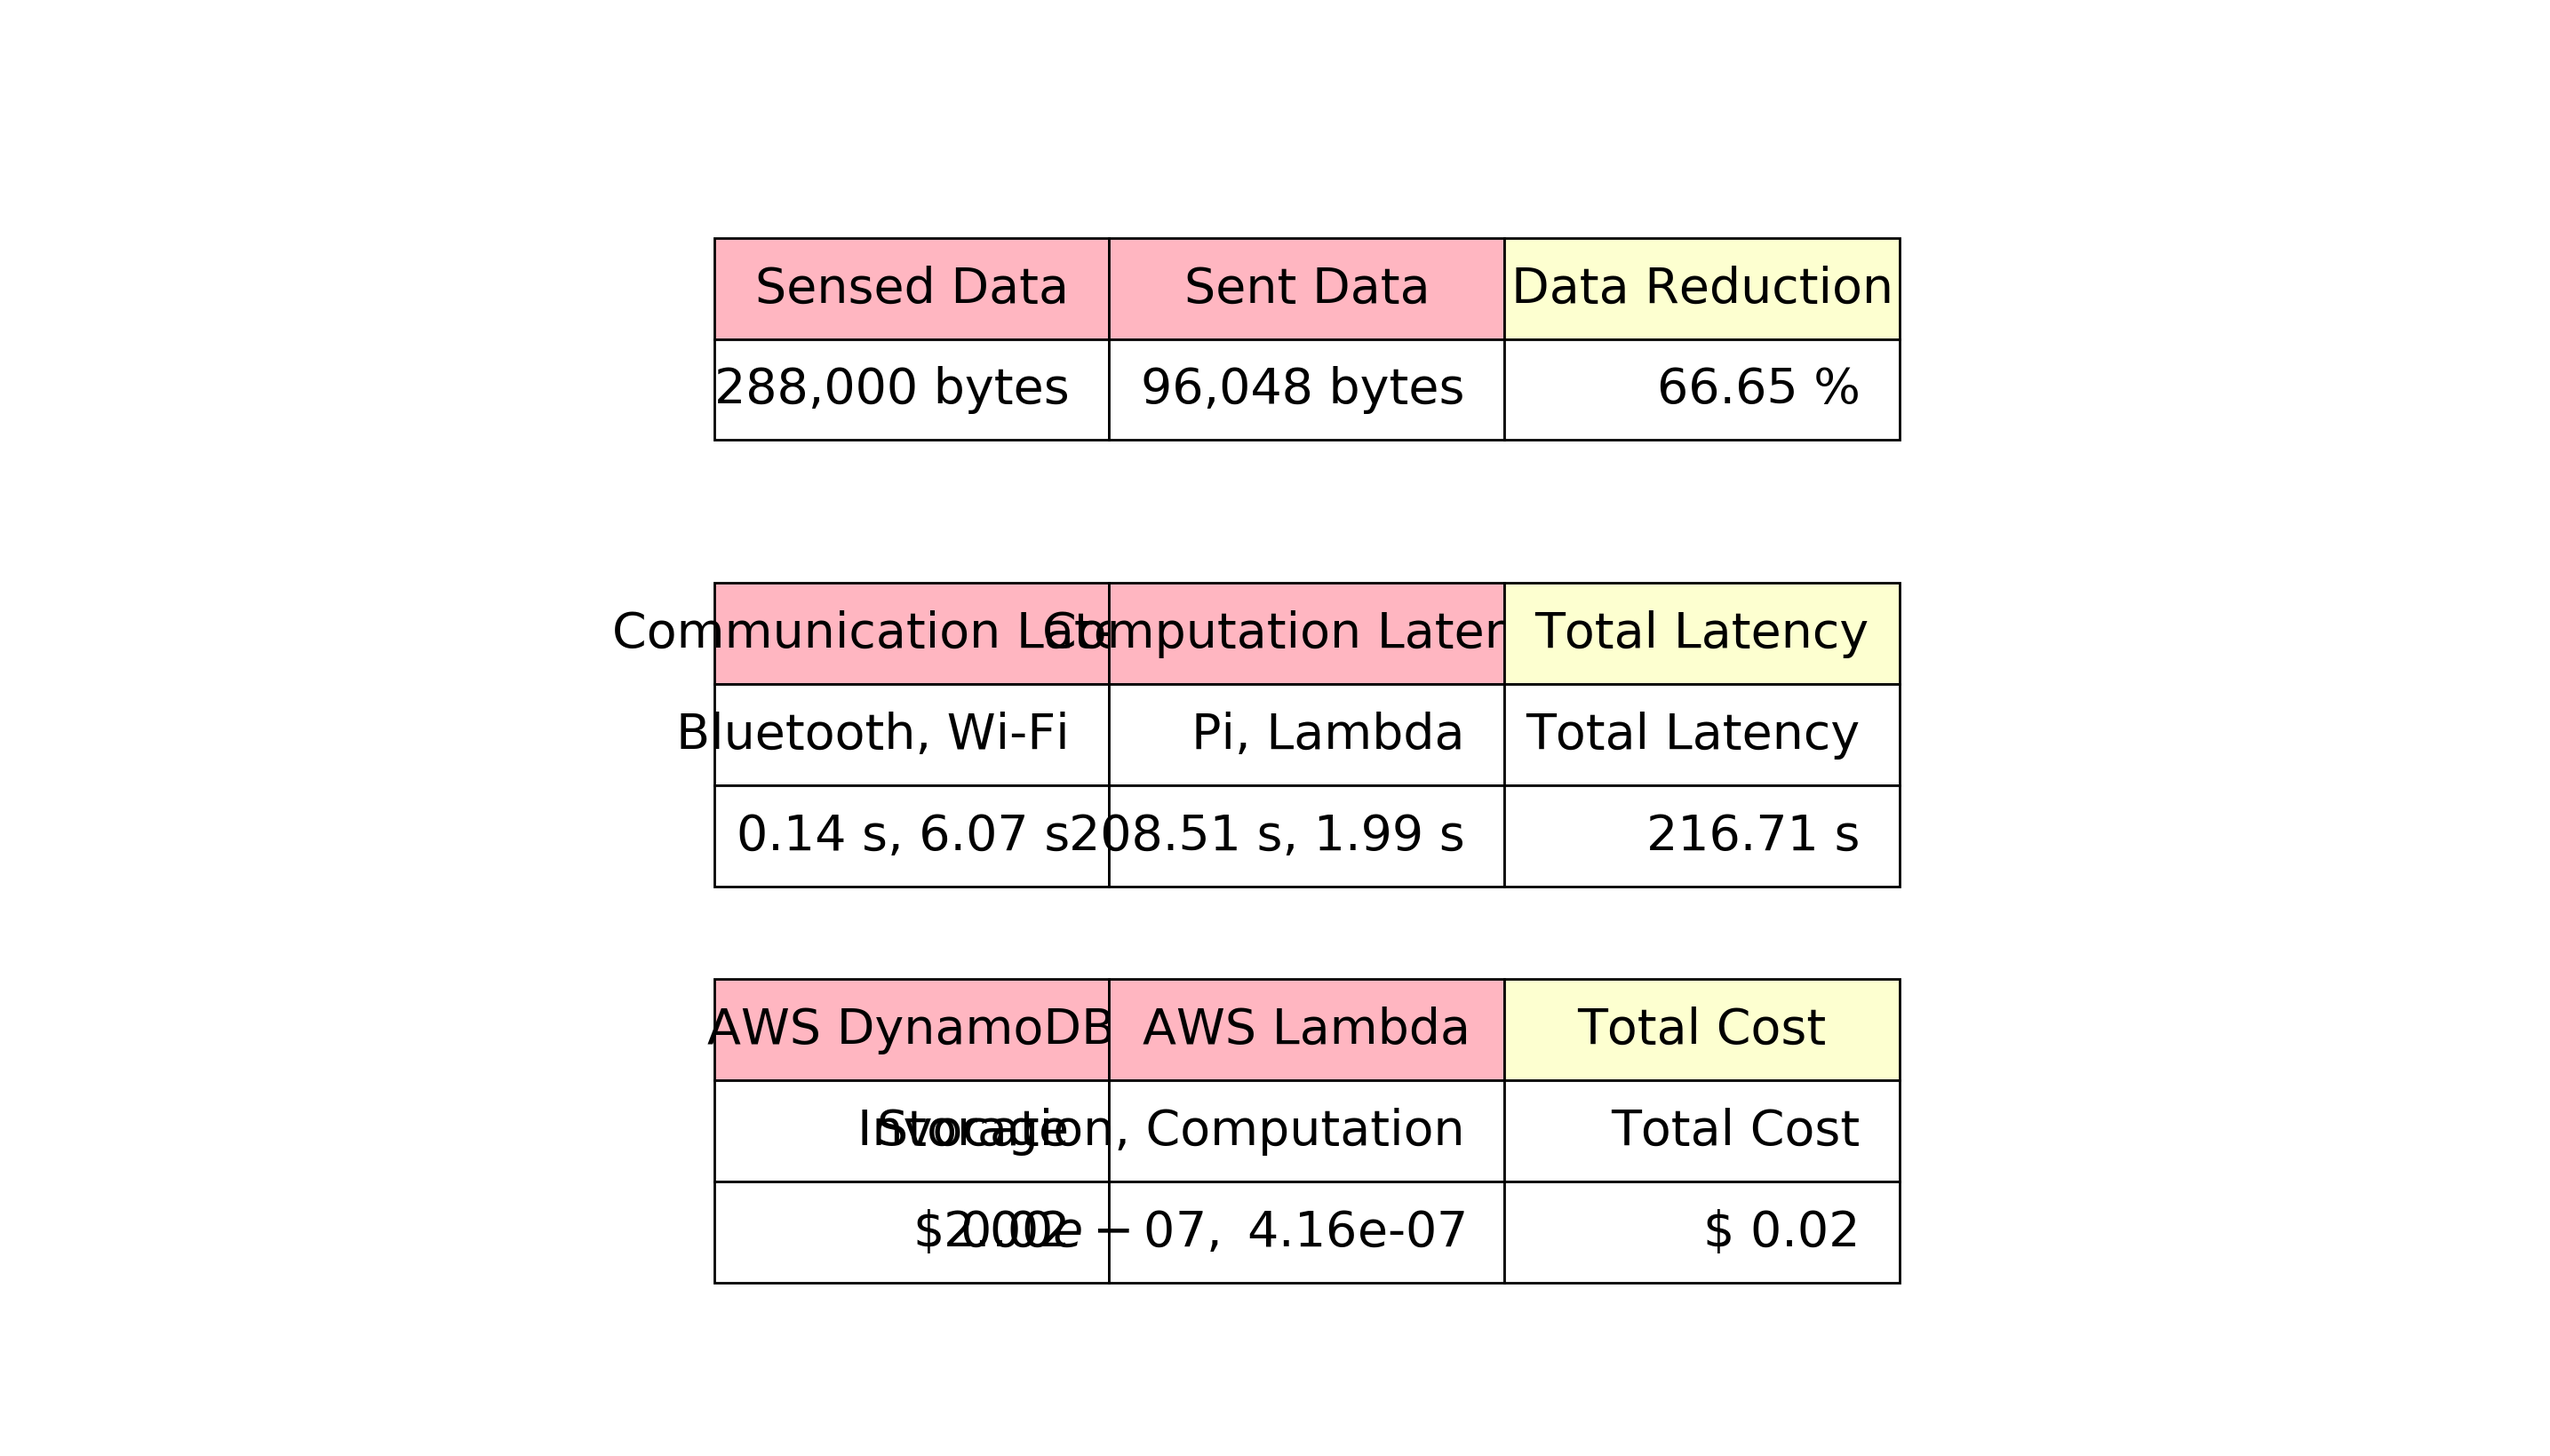
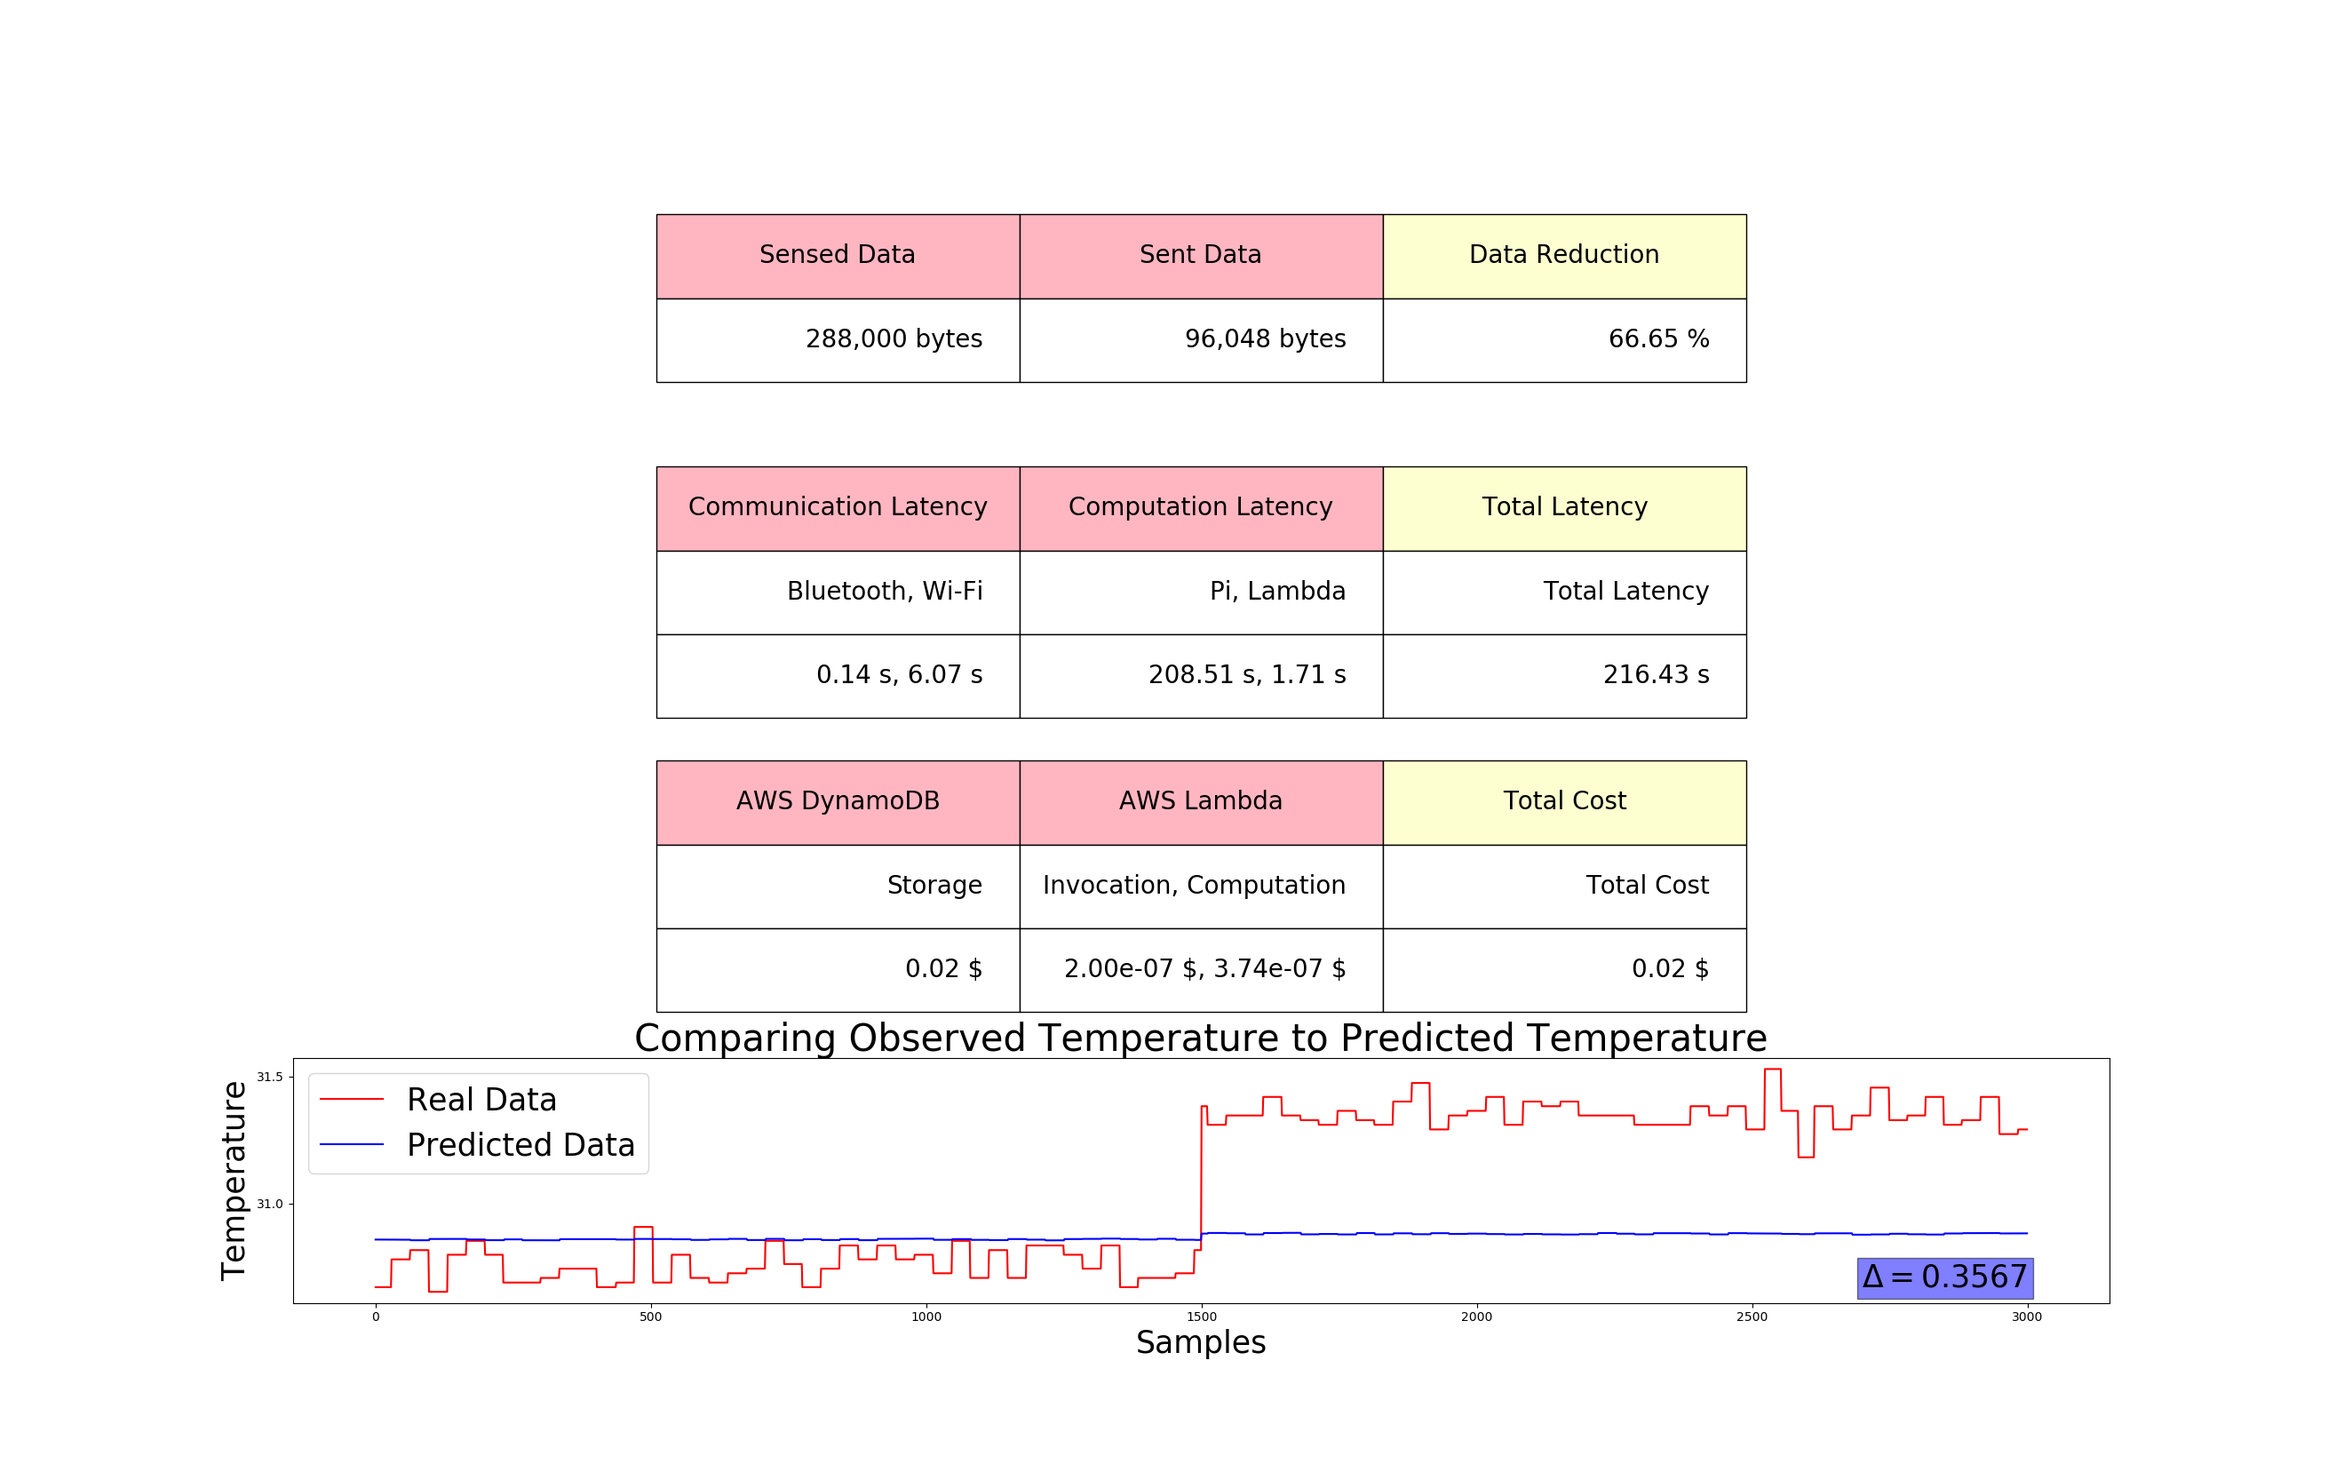
Allow for separate plots.

diff --git a/DemoPlot.py b/DemoPlot.py
@@ -13,6 +13,7 @@ Note: Still needs debugging.
 import matplotlib.pylab as plt
 import matplotlib.pyplot as pyplot
 import math
+import sys
 
 from DynamoDBUtility import Table
 
@@ -24,7 +25,7 @@ pink = '#ffb6c1'
 paleYellow = '#fdffd0'
 
 # Initialize plot figure to make it accessible by every function
-fig, axs = plt.subplots(4, 1)
+fig, axs = plt.subplots(5-int(sys.argv[1]), 1)
 fig.set_figwidth(0.6)
 
 #_______________________________________________________________________________
@@ -120,25 +121,24 @@ def plotCosts(resultItem):
         "AWS DynamoDB", "AWS Lambda", "Total Cost"
     ]
     dec = 2
-    displayInvokeCompute = dp(invokeCost, '$', n = dec, targetType = 'f') # + ', ' + dp(computeCost, '$', n = dec, targetType = 'E', suffix = False)
-    lambdaCost = invokeCost + computeCost
+    lambdaCost = dp(invokeCost, '\$', n = dec, targetType = 'e') + ', ' + dp(computeCost, '\$', n = dec, targetType = 'e')
     costs_data = [
         [
             "Storage", "Invocation, Computation", "Total Cost"
         ],
         [
             dp(dbCost, '$', n = dec),
-            dp(lambdaCost, '$', n = dec, targetType = 'e'),
+            # dp(lambdaCost, '$', n = dec, targetType = 'e'),
+            lambdaCost,
             dp(totalCost, '$', n = dec)
         ]
     ]
-    print(displayInvokeCompute)
     colors = [pink, pink, paleYellow]
     plotTableFigure(2, costs_data, costs_collabel, colors)
 
 #_______________________________________________________________________________
 
-def plotAccuracy(resultItem):
+def plotAccuracy(resultItem, figureNumber):
     '''
     Plots a graph that shows the observed values, predicted values and error.
     '''
@@ -148,8 +148,9 @@ def plotAccuracy(resultItem):
     xUnits = list(range(len(predictedData)))
     error = '{:.4f}'.format(resultItem['Error'])
 
-    pyplot.figure(1)
-    pyplot.rcParams.update({'font.size': 25})
+    pyplot.figure(int(figureNumber))
+    pyplot.rcParams.update({'figure.figsize': [0.6, 1.4]})
+    pyplot.rcParams.update({'font.size': 22})
 
     # pyplot.grid(True)
     pyplot.xlabel("Samples", fontsize = 25)
@@ -178,8 +179,10 @@ def plotTableFigure(index, cellText, columnLabels, colors):
 
     The lists should be of the same length
     '''
-    width = 0.6
-    height = 2.0
+    width = 1.0
+    height = 1.65
+    # height = len(cellText) * 0.7
+    # print("Height :", height)
     axs[index].axis('tight')
     axs[index].axis('off')
     tableBeingPlotted = axs[index].table(
@@ -196,7 +199,7 @@ def plotTableFigure(index, cellText, columnLabels, colors):
 #_______________________________________________________________________________
 
 def main():
-
+    figureNumber = sys.argv[1]
     oldTime = 0
     resultTable = Table('weightresult')
     resultItem = resultTable.getItem({
@@ -206,7 +209,7 @@ def main():
     plotBandwidth(resultItem)
     plotLatency(resultItem)
     plotCosts(resultItem)
-    plotAccuracy(resultItem)
+    plotAccuracy(resultItem, figureNumber)
     plt.show()
 
 #_______________________________________________________________________________
